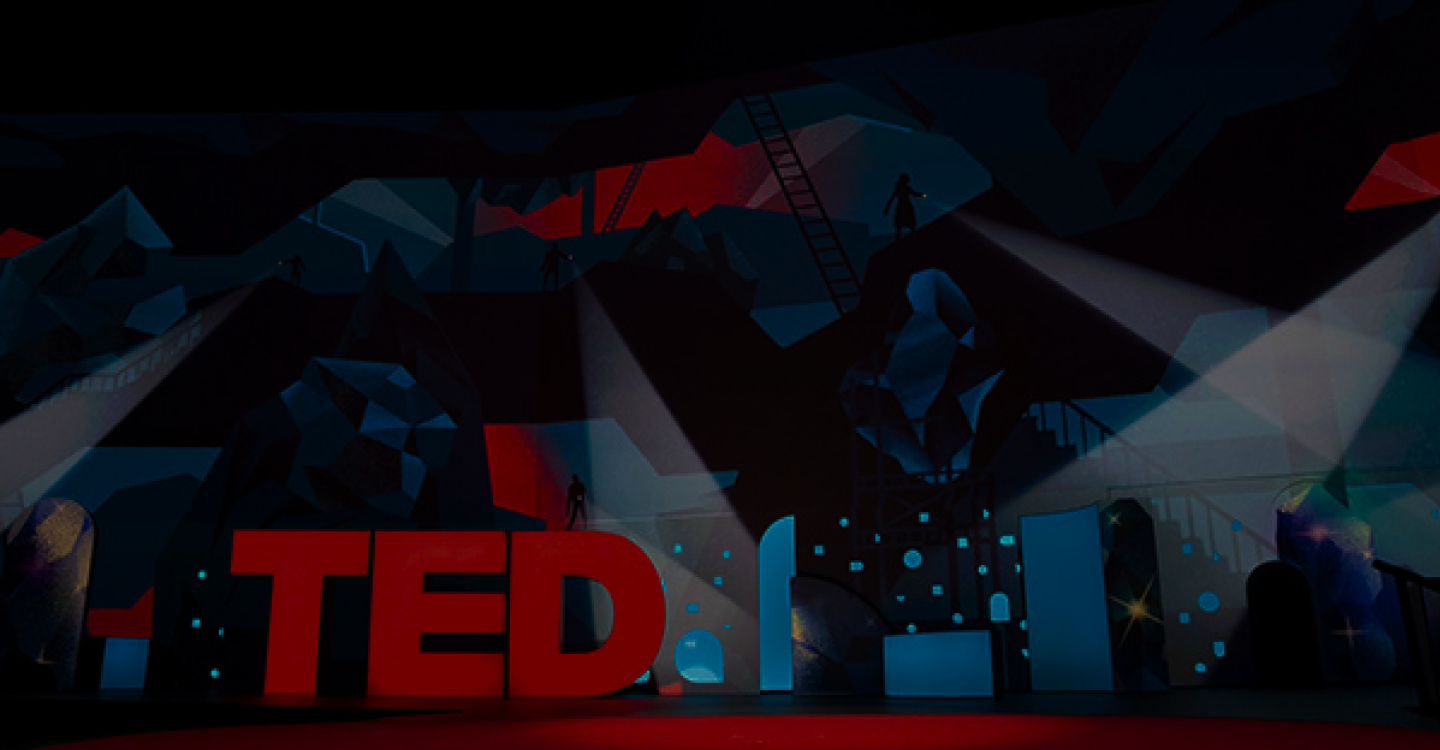
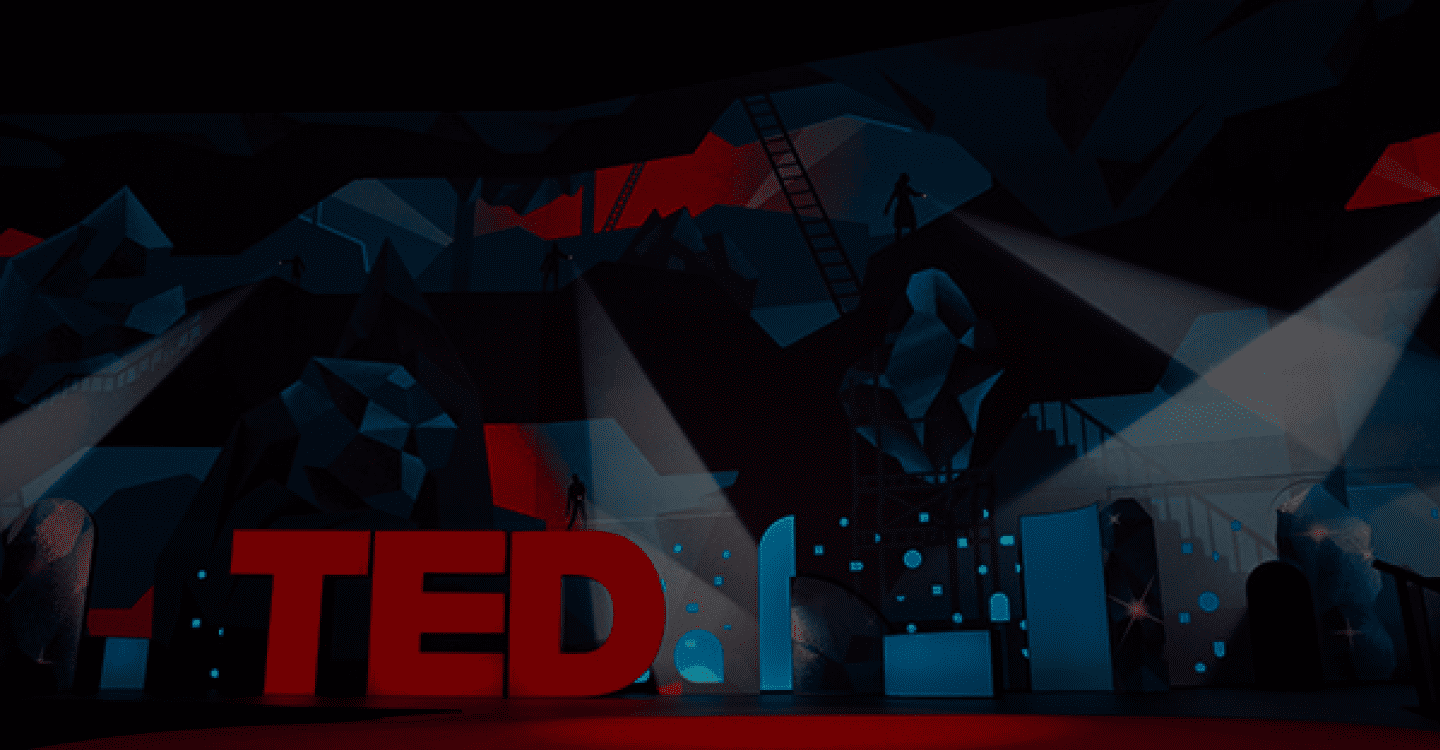
chore: optimizing images (png/jpg)

diff --git a/app/quiz/result-block.tsx b/app/quiz/result-block.tsx
@@ -4,25 +4,25 @@ const results = {
   creative: {
     title: "The Creative",
     desc: "The Creative personality type is likely characterized by a strong inclination towards imagination, originality, and artistic expression. Creatives often enjoy exploring new ideas, thinking outside the box, and engaging in various forms of artistic and creative endeavors.",
-    bg: "/quiz/creative.png",
+    bg: "/quiz/creative.jpg",
     video: "https://www.youtube.com/embed/D2FSRiJdqho?si=efxBbiAl_tlqOr4b",
   },
   social: {
     title: "The Social",
     desc: "The Social personality type may be associated with individuals who are sociable, outgoing, and enjoy social interactions. They might be skilled at building and maintaining relationships, and they may thrive in group settings and social activities.",
-    bg: "/quiz/social.png",
+    bg: "/quiz/social.jpg",
     video: "https://www.youtube.com/embed/Kr7lP1z8UCw?si=bUpbBsaO_V2CW4Ec",
   },
   scientist: {
     title: "The Scientist",
     desc: "The Scientist personality type could be described as analytical, logical, and detail-oriented. People with this personality might have a strong interest in understanding and explaining the world through systematic observation and analysis.",
-    bg: "/quiz/scientist.png",
+    bg: "/quiz/scientist.jpg",
     video: "https://www.youtube.com/embed/i-UAhK-vfQw?si=I8mbu68wzILel-Yi",
   },
   director: {
     title: "The Director",
     desc: "This personality type might be characterized as someone who is assertive, goal-oriented, and takes charge in various situations. Directors are often seen as leaders and decision-makers, and they tend to be driven and focused on achieving their objectives.",
-    bg: "/quiz/director.png",
+    bg: "/quiz/director.jpg",
     video: "https://www.youtube.com/embed/2YM7rc29uW8?si=Xc9FFngg0vuAmFMI",
   },
 };
@@ -83,7 +83,7 @@ const ResultBlock = ({
       />
       <div className="absolute bottom-0 left-0 right-0 top-0 z-[10] md:hidden">
         <Image
-          src="/quiz/bg2.png"
+          src="/quiz/bg2.jpg"
           alt="Background Image"
           fill
           className="absolute object-cover object-center"

diff --git a/app/documentation/page.tsx b/app/documentation/page.tsx
@@ -35,7 +35,7 @@ const DocumentationPage = async () => {
       <section className="relative flex min-h-[calc(100vh-96px)] w-full items-center justify-center px-5 py-12">
         {/* Backround Image */}
         <Image
-          src="/documentation/hero.png"
+          src="/documentation/hero.jpg"
           className="z-10 w-full object-cover object-center"
           alt="Documentation Hero Backround Image"
           sizes="100vw"

diff --git a/app/quiz/question-block.tsx b/app/quiz/question-block.tsx
@@ -148,7 +148,7 @@ const QuestionBlock = ({
   return (
     <div className="relative flex h-full min-h-[calc(100vh-6rem)] w-full items-center justify-center">
       <Image
-        src="/quiz/bg2.png"
+        src="/quiz/bg2.jpg"
         alt="Background Image"
         fill
         className="absolute z-[-10] object-cover object-center"

diff --git a/components/ui/footer.tsx b/components/ui/footer.tsx
@@ -21,7 +21,7 @@ async function Footer() {
       <div className="absolute inset-0">
         <Image
           className="object-cover"
-          src="/components/bg-footer.png"
+          src="/components/bg-footer.jpg"
           fill
           alt="background"
         />
